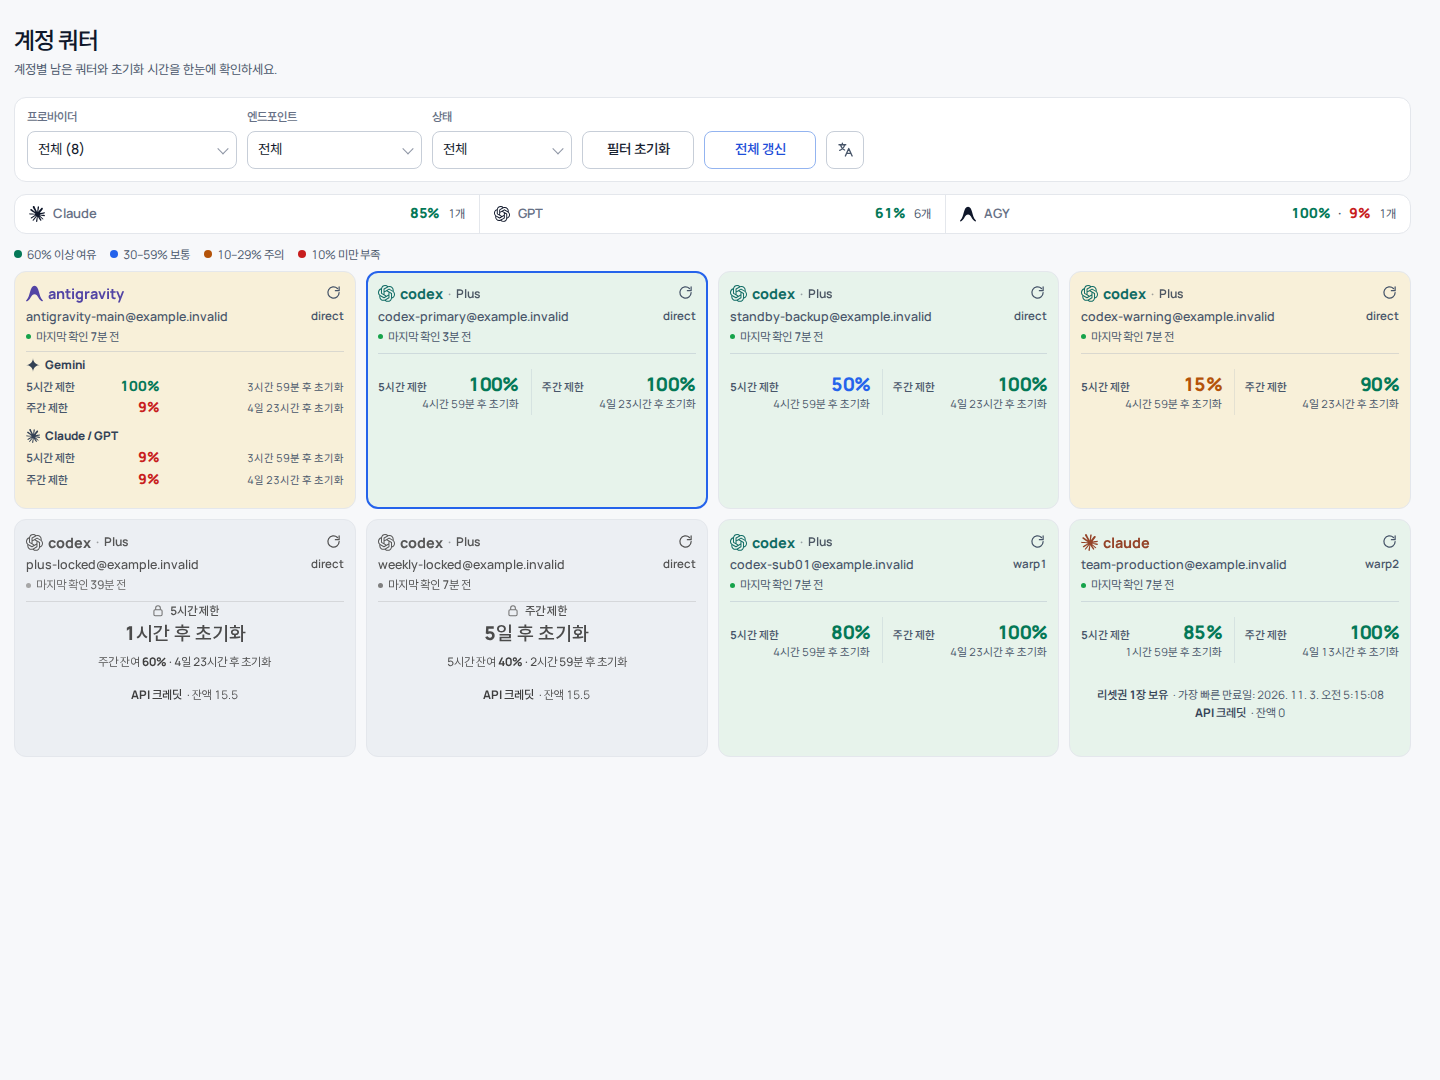
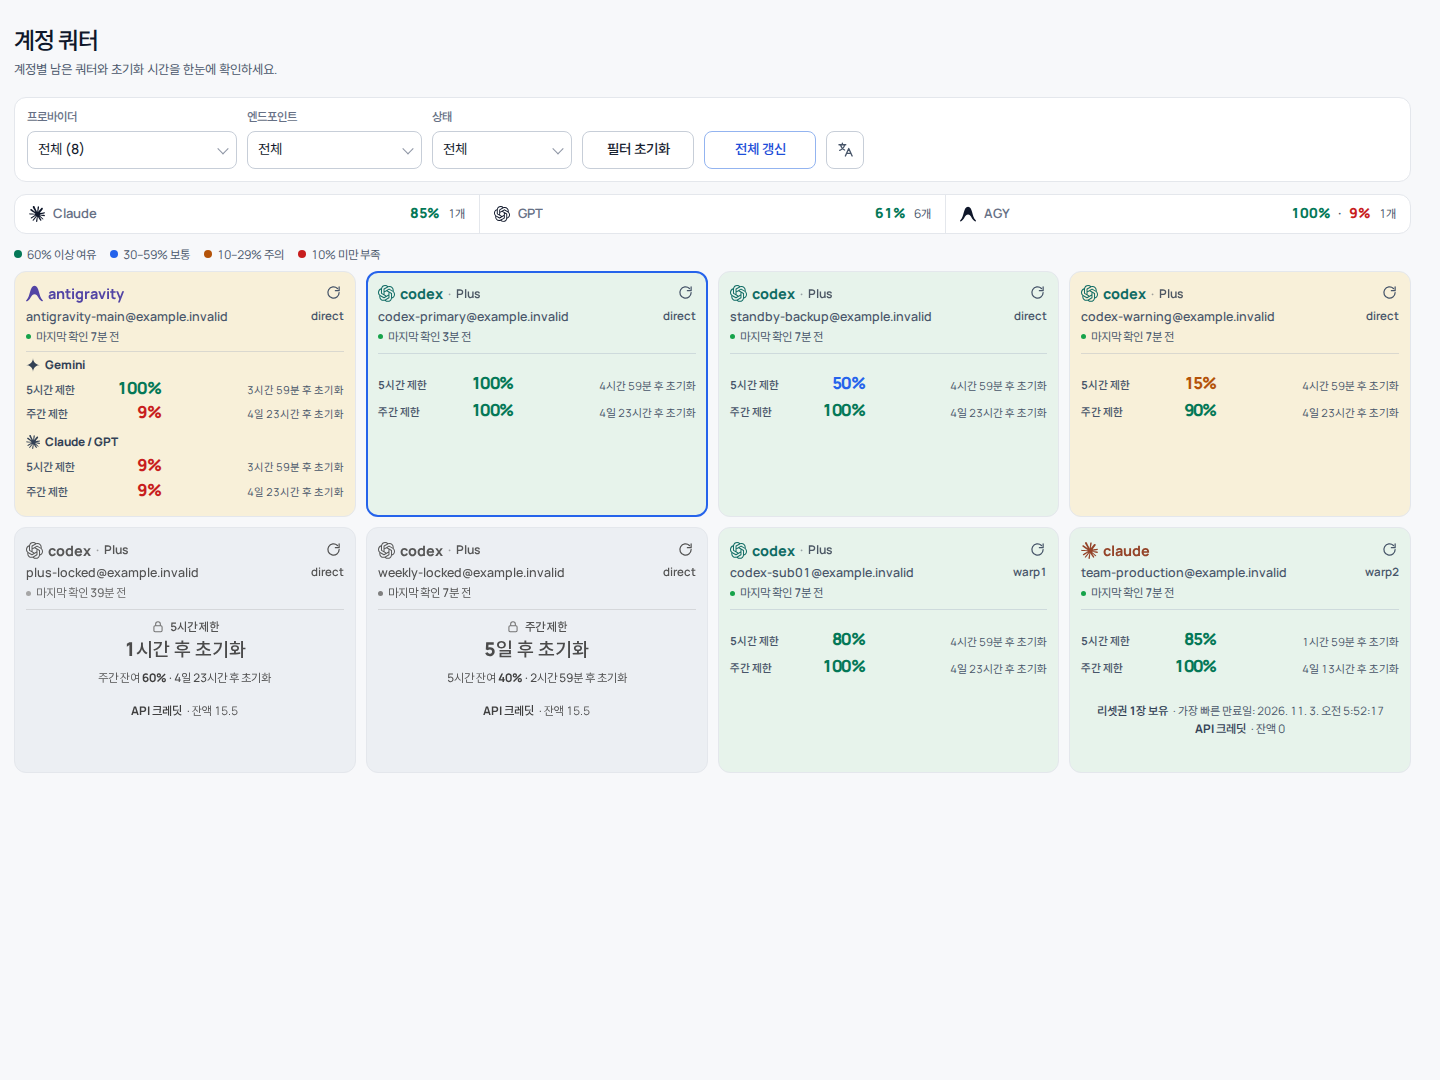
fix(dashboard): one percent column across all providers, fixed heading offset on locked cards
- GPT/Claude limits now stack like antigravity: label | percent | reset, with a fixed-width
  percent column, so every card's % lines up at the same x
- locked heading sits the same distance under the divider on antigravity, GPT and Claude
- README screenshots refreshed

diff --git a/internal/dashboard/style.css b/internal/dashboard/style.css
@@ -524,3 +524,30 @@
     .account-card:not([data-provider="antigravity"]):not(:has(.credit-summary))::after { display: none; }
     .quota-pending { padding: 18px 8px 22px; }
   }
+
+  /* ===================== Unified geometry (all providers) ===================== */
+  /* Every quota row on every card has the same three tracks: label | percent | reset.
+     The percent column is a fixed width, so the right edge of every % sits at the same x. GPT/Claude show
+     the two limits as two stacked rows (like antigravity) instead of two side-by-side halves. */
+  :root { --pct-label-w: 4.6em; --pct-col-w: 56px; }
+  .ag-family-limits { grid-template-columns: var(--pct-label-w) var(--pct-col-w) minmax(0, 1fr); }
+  .ag-limit-item { grid-template-columns: subgrid; }
+  .ag-limit-value { width: var(--pct-col-w); font-size: 1.05rem; line-height: 1.25; text-align: right; }
+  .ag-limit-reset { white-space: nowrap; }
+
+  .quota-values { grid-template-columns: minmax(0, 1fr); row-gap: 6px; column-gap: 0; }
+  .quota-value-row { display: grid; grid-template-columns: var(--pct-label-w) var(--pct-col-w) minmax(0, 1fr); grid-template-rows: auto; align-items: baseline; column-gap: 6px; padding: 0; border-right: 0; }
+  .quota-value-row:nth-child(odd) { padding-right: 0; border-right: 0; }
+  .quota-value-label { grid-column: 1; }
+  .quota-value-number { grid-column: 2; width: var(--pct-col-w); font-size: 1.05rem; line-height: 1.25; text-align: right; }
+  .quota-value-reset { grid-column: 3; grid-row: 1; text-align: right; white-space: nowrap; }
+
+  /* Locked heading: same distance below the header divider for antigravity, GPT and Claude. */
+  .ag-family-section.is-locked, .ag-family-section.is-locked:first-child, .ag-family-section.is-locked + .ag-family-section.is-locked { padding-top: 14px; }
+  .quota-lock-state { padding-top: 4px; justify-content: center; }
+  .ag-family-section.is-locked:first-child { padding-top: 4px; }
+
+  /* Locked GPT/Claude cards: heading sits at a fixed distance under the divider (same as antigravity),
+     not centred in the spare height, so the 'weekly limit' line never floats away from or hugs the divider. */
+  .account-card:not([data-provider="antigravity"]):has(.quota-lock-state) .card-quota { justify-content: flex-start; padding-top: 8px; }
+  .account-card:not([data-provider="antigravity"]) .quota-lock-state { padding-top: 0; }
